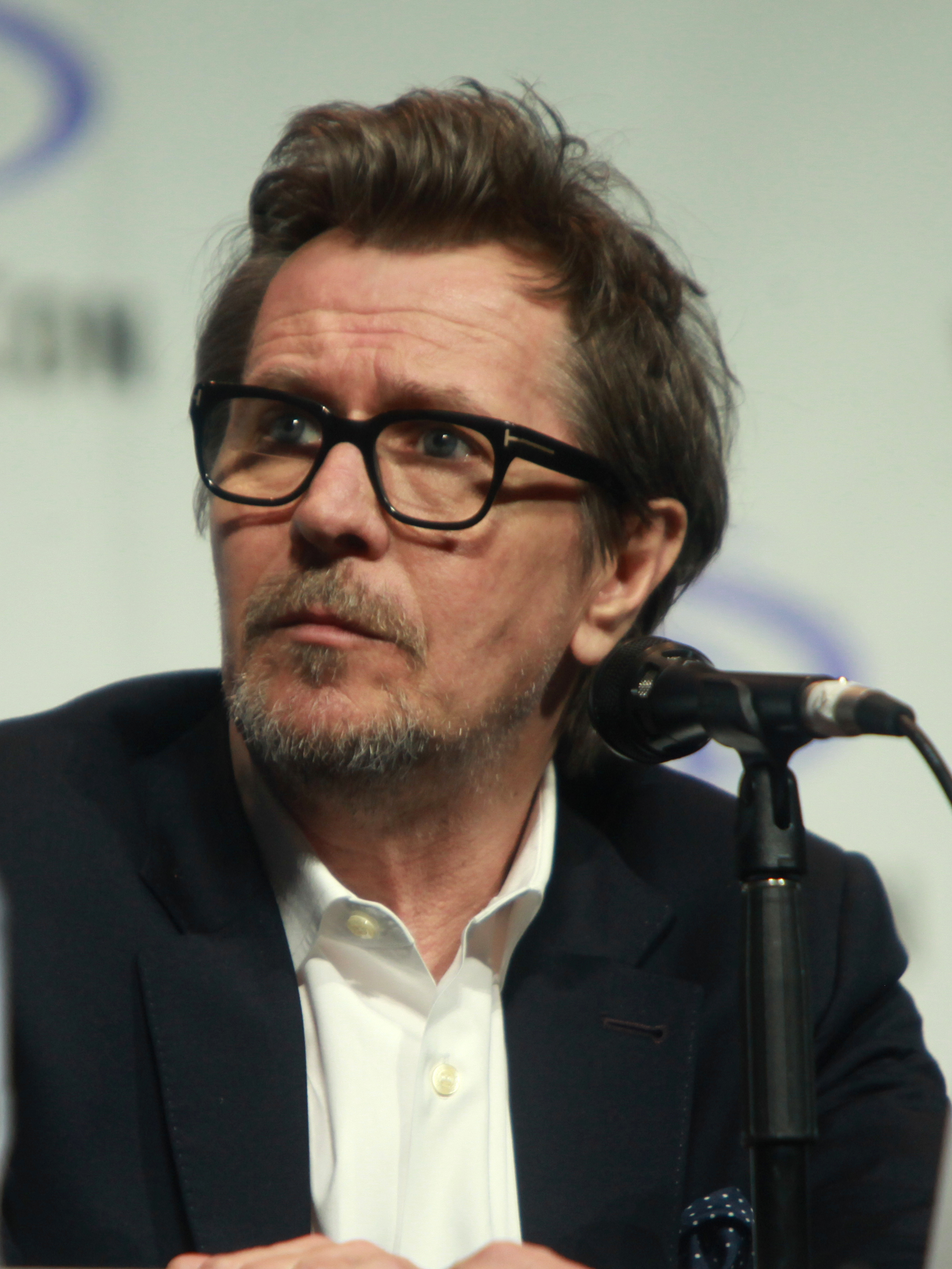
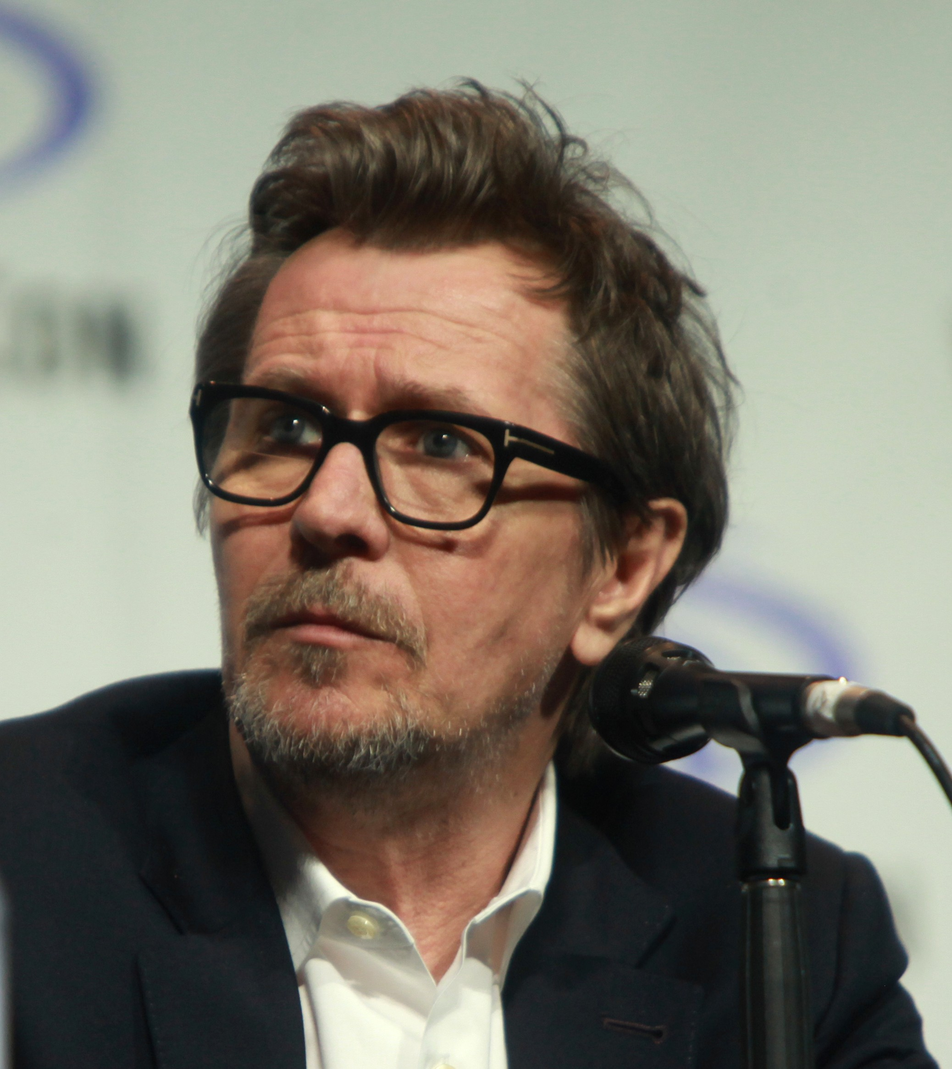
Tweak CSS to have a more cohesive UI

diff --git a/src/main/resources/css/main.css b/src/main/resources/css/main.css
@@ -1,26 +1,33 @@
 .root {
-    main-color: rgb(237, 255, 242);       /* Create a looked-up color called "main-color" within root. */
+    main-color: #010736;      /* Create a looked-up color called "main-color" within root. */
     -fx-background-color: main-color;
 }
 
 .text-field {
-    -fx-background-color: #d9ffe2;
-    -fx-font: 20px "Arial";
+    -fx-background-color: #22396F;
+    -fx-prompt-text-fill: #FCF1D0;
+    -fx-text-fill: #FCF1D0;
+    -fx-font: 14px "Arial";
+    -fx-border-color: #0D1C42 #0D1C42 #0D1C42 #0D1C42;
+    -fx-border-width: 2px;
 }
 
 .button {
-    -fx-background-color: mediumspringgreen;
-    -fx-font: italic bold 16px "Arial";
+    -fx-background-color: #22396F;
+    -fx-text-fill: #FCF1D0;
+    -fx-font: bold 18px "Arial";
+    -fx-border-color: #0D1C42 #0D1C42 #0D1C42 #0D1C42;
+    -fx-border-width: 2px;
 }
 
 .button:hover {
-    -fx-background-color:derive(mediumspringgreen, -10%);
+    -fx-background-color:derive(#22396F, -10%);
     -fx-font-size: 18px;
 }
 
 .button:pressed {
-    -fx-background-color:derive(mediumspringgreen, -50%);
-    -fx-font-size: 20px;
+    -fx-background-color:derive(#22396F, -50%);
+    -fx-font-size: 18px;
 }
 
 .scroll-pane,
@@ -34,7 +41,7 @@
 }
 
 .scroll-bar .thumb {
-    -fx-background-color: #ff9cb4;
+    -fx-background-color: #22396F;
     -fx-background-radius: 1em;
 }
 

diff --git a/src/main/resources/css/dialog-box.css b/src/main/resources/css/dialog-box.css
@@ -1,10 +1,10 @@
 .label {
-    -fx-background-color: linear-gradient(to bottom right, #E59007, #FFD78C);
-    -fx-border-color: #C94C0E #C94C0E #C94C0E #C94C0E;
+    -fx-background-color: #22396F;
+    -fx-border-color: #0D1C42 #0D1C42 #0D1C42 #0D1C42;
     -fx-border-width: 2px;
     -fx-background-radius: 1em 1em 0 1em;
     -fx-border-radius: 1em 1em 0 1em;
-    -fx-text-fill: black;
+    -fx-text-fill: #FCF1D0;
 }
 
 .reply-label {

diff --git a/src/main/java/xerxes/DialogBox.java b/src/main/java/xerxes/DialogBox.java
@@ -13,6 +13,7 @@ import javafx.scene.control.Label;
 import javafx.scene.image.Image;
 import javafx.scene.image.ImageView;
 import javafx.scene.layout.HBox;
+import javafx.scene.shape.Circle;
 
 /**
  * Represents a dialog box consisting of an ImageView to represent the speaker's face
@@ -38,6 +39,8 @@ public class DialogBox extends HBox {
         assert displayPicture != null : "DialogBox.fxml must define the display picture";
         dialog.setText(text);
         displayPicture.setImage(img);
+        double imageSize = 60.0;
+        displayPicture.setClip(new Circle(imageSize / 2, imageSize / 2,imageSize / 2));
     }
 
     /**
